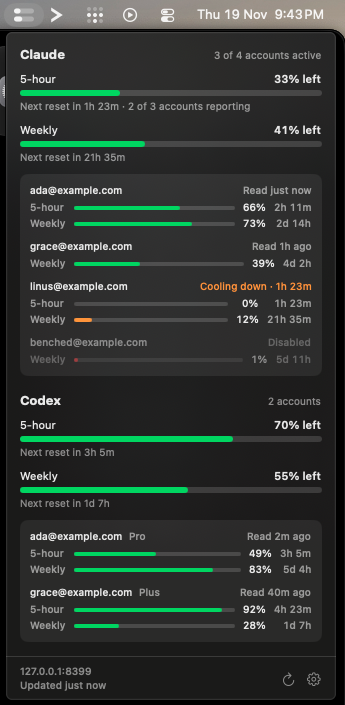
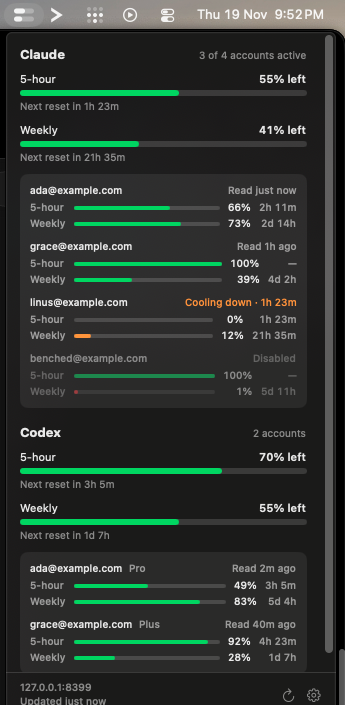
Fix council round 1 findings
Draw a gauge with no reading as an outline, keep hub answers off disk,
refuse redirects, count an unreported Claude 5-hour window as unused,
and give an extra Codex limit one id across transports.

diff --git a/Tests/ProxyLimitsTests/LimitsTests.swift b/Tests/ProxyLimitsTests/LimitsTests.swift
@@ -22,9 +22,17 @@ private func isClose(_ a: Double?, _ b: Double) -> Bool {
         #expect(isClose(ada.observedAt?.timeIntervalSince1970, 1_795_136_709.482))
     }
 
-    @Test func anAccountWithoutA5HourReadingOnlyHasItsWeeklyWindow() throws {
+    @Test func aClaudeReadingWithoutA5HourWindowMeansThatWindowIsUnused() throws {
+        // Anthropic sends no 5-hour headers while the 5-hour window has no usage.
         let grace = try #require(fixtureAccounts().first { $0.id.contains("bbbb2222") })
-        #expect(grace.windows.map(\.id) == ["7d"])
+
+        #expect(grace.windows.map(\.id) == ["5h", "7d"])
+        #expect(grace.windows.first?.usedFraction == 0)
+        #expect(grace.windows.first?.resetsAt == nil)
+    }
+
+    @Test func aClaudeAccountWithNoReadingHasNoWindows() {
+        #expect(SignalParser.windows(provider: .claude, signals: [:], observedAt: nil).isEmpty)
     }
 
     @Test func aRejectedWindowIsFullyUsedEvenWithoutAUtilization() throws {
@@ -50,7 +58,7 @@ private func isClose(_ a: Double?, _ b: Double) -> Bool {
         let codex = try #require(fixtureAccounts().first { $0.provider == .codex })
 
         #expect(codex.plan == "pro")
-        #expect(codex.windows.map(\.id) == ["5h", "7d", "bengalfox:7d"])
+        #expect(codex.windows.map(\.id) == ["5h", "7d", "gpt-5.3-codex-spark:7d"])
         #expect(codex.windows.map(\.label) == ["5-hour", "Weekly", "GPT-5.3-Codex-Spark · Weekly"])
         #expect(codex.windows.map(\.usedFraction) == [0.51, 0.17, 0.35])
         // No absolute reset on the 5-hour window: observed 23:00:00Z plus 7200 seconds.
@@ -70,6 +78,24 @@ private func isClose(_ a: Double?, _ b: Double) -> Bool {
         )
         #expect(windows.map(\.id) == ["7d", "secondary"])
         #expect(windows.map(\.label) == ["Weekly", "Secondary"])
+    }
+
+    @Test func anExtraCodexLimitHasOneIdHoweverTheHubSawIt() {
+        // The hub prefixes an extra limit with a short name for HTTP traffic and with
+        // "additional-<name>" for websocket traffic.
+        func ids(_ prefix: String) -> [String] {
+            SignalParser.windows(
+                provider: .codex,
+                signals: [
+                    "\(prefix)-limit-name": "GPT-5.3-Codex-Spark",
+                    "\(prefix)-primary-used-percent": "20",
+                    "\(prefix)-primary-window-minutes": "300",
+                ],
+                observedAt: nil
+            ).map(\.id)
+        }
+        #expect(ids("X-Codex-Bengalfox") == ["gpt-5.3-codex-spark:5h"])
+        #expect(ids("X-Codex-Additional-Gpt-5.3-Codex-Spark") == ["gpt-5.3-codex-spark:5h"])
     }
 
     @Test func ignoresValuesThatAreNotNumbers() {
@@ -113,10 +139,11 @@ private func isClose(_ a: Double?, _ b: Double) -> Bool {
         #expect(pools.map(\.provider) == [.claude, .codex])
         #expect(claude.windows.map(\.id) == ["5h", "7d", "7d_sonnet"])
 
-        // ada has 80% left and linus is rejected; grace reports no 5-hour window.
+        // ada has 80% left, grace's window is unused and linus is rejected. The API-key
+        // entry has no reading and is left out.
         let fiveHour = try #require(claude.window("5h"))
-        #expect(isClose(fiveHour.remainingFraction, 0.4))
-        #expect(fiveHour.accountCount == 2)
+        #expect(isClose(fiveHour.remainingFraction, (0.8 + 1 + 0) / 3))
+        #expect(fiveHour.accountCount == 3)
         #expect(fiveHour.nextReset == date(1_795_147_200))
 
         // ada 73%, grace 39%, linus 10%. The benched account's 1% is left out.

diff --git a/Sources/ProxyLimits/HubClient.swift b/Sources/ProxyLimits/HubClient.swift
@@ -30,10 +30,15 @@ public struct HubClient: Sendable {
     private let managementKey: String
     private let session: URLSession
 
-    public init(baseURL: URL, managementKey: String, session: URLSession = .shared) {
+    /// Keeps nothing on disk. The shared session would cache every answer in
+    /// `~/Library/Caches`, and an answer lists each account's email and, for API-key
+    /// credentials, the key itself.
+    private static let privateSession = URLSession(configuration: .ephemeral)
+
+    public init(baseURL: URL, managementKey: String, session: URLSession? = nil) {
         self.baseURL = baseURL
         self.managementKey = managementKey
-        self.session = session
+        self.session = session ?? Self.privateSession
     }
 
     /// Accepts what people paste: a bare host, a trailing slash, or the panel's own address
@@ -44,7 +49,8 @@ public struct HubClient: Sendable {
         if !trimmed.contains("://") {
             // Without a scheme, only this machine gets plain HTTP: the request carries the
             // management key.
-            let isLocal = ["127.0.0.1", "localhost", "[::1]"].contains { trimmed.hasPrefix($0) }
+            let host = URLComponents(string: "https://" + trimmed)?.host?.lowercased() ?? ""
+            let isLocal = ["127.0.0.1", "localhost", "::1", "[::1]"].contains(host)
             trimmed = (isLocal ? "http://" : "https://") + trimmed
         }
         guard let parsed = URLComponents(string: trimmed),
@@ -67,7 +73,7 @@ public struct HubClient: Sendable {
         let data: Data
         let response: URLResponse
         do {
-            (data, response) = try await session.data(for: request)
+            (data, response) = try await session.data(for: request, delegate: RedirectRefuser())
         } catch {
             throw .unreachable(error.localizedDescription)
         }
@@ -96,6 +102,19 @@ public struct HubClient: Sendable {
             return nil
         }
         return String(text.prefix(160))
+    }
+}
+
+/// Stops at a redirect instead of following it. The hub never answers this route with one,
+/// and following it would hand the management key to wherever it points.
+private final class RedirectRefuser: NSObject, URLSessionTaskDelegate {
+    func urlSession(
+        _ session: URLSession,
+        task: URLSessionTask,
+        willPerformHTTPRedirection response: HTTPURLResponse,
+        newRequest request: URLRequest
+    ) async -> URLRequest? {
+        nil
     }
 }
 

diff --git a/Sources/ProxyLimits/SignalParser.swift b/Sources/ProxyLimits/SignalParser.swift
@@ -36,7 +36,7 @@ enum SignalParser {
             guard parts[0] != "overage" else { continue }
             fields[String(parts[0]), default: [:]][String(parts[1])] = value
         }
-        return fields.compactMap { id, field in
+        var windows: [Ranked] = fields.compactMap { id, field in
             let rejected = field["status"] == "rejected"
             guard let used = rejected ? 1 : field["utilization"].flatMap(Double.init), used.isFinite else {
                 return nil
@@ -49,6 +49,13 @@ enum SignalParser {
             )
             return (windowRank(id), window)
         }
+        // Anthropic leaves the 5-hour headers out while that window has no usage, so a
+        // reading with a weekly window and no 5-hour one means the 5-hour window is unused.
+        // CLIProxyAPI reads it the same way when it routes (QuotaWindowIdle).
+        if windows.contains(where: { $0.window.id == "7d" }), !windows.contains(where: { $0.window.id == "5h" }) {
+            windows.append((windowRank("5h"), LimitWindow(id: "5h", label: claudeLabel("5h"), usedFraction: 0, resetsAt: nil)))
+        }
+        return windows
     }
 
     private static func claudeLabel(_ id: String) -> String {
@@ -69,6 +76,8 @@ enum SignalParser {
     /// `x-codex-[<limit>-]<primary|secondary>-<field>`. Used percent is 0...100. Which slot is
     /// the 5-hour window and which the weekly one depends on the plan, so the window length
     /// decides. Extra limits (a separate model allowance, for example) carry a limit name.
+    /// The hub spells an extra limit's header prefix differently for HTTP and websocket
+    /// traffic, so the limit name, when there is one, identifies it across accounts.
     private static func codexWindows(_ signals: [String: String], observedAt: Date?) -> [Ranked] {
         let prefix = "x-codex-"
         let suffixes = ["used-percent", "window-minutes", "reset-at", "reset-after-seconds"]
@@ -99,7 +108,7 @@ enum SignalParser {
             }
             let limitName = signals["x-codex-\(limit)-limit-name"] ?? limit
             let window = LimitWindow(
-                id: "\(limit):\(id)",
+                id: "\(limitName.lowercased()):\(id)",
                 label: "\(limitName) · \(label)",
                 usedFraction: percent / 100,
                 resetsAt: resetsAt

diff --git a/Sources/APIProxyWidget/MenuBarIcon.swift b/Sources/APIProxyWidget/MenuBarIcon.swift
@@ -2,7 +2,8 @@ import AppKit
 import ProxyLimits
 
 /// Draws the menu bar item: two gauges that drain as the pool is used.
-/// The top one is the 5-hour window, the bottom one the weekly window.
+/// The top one is the 5-hour window, the bottom one the weekly window. A gauge with no reading
+/// is an outline, so "unknown" never looks like "used up".
 enum MenuBarIcon {
     /// A warning sign replaces the gauges once they would show limits nobody can vouch for.
     static func image(for pool: ProviderPool?, isOutOfDate: Bool) -> NSImage {
@@ -29,9 +30,16 @@ enum MenuBarIcon {
                     height: barHeight
                 )
                 let radius = barHeight / 2
+                guard let level else {
+                    let outline = NSBezierPath(
+                        roundedRect: track.insetBy(dx: 0.5, dy: 0.5), xRadius: radius - 0.5, yRadius: radius - 0.5)
+                    NSColor.black.withAlphaComponent(0.45).setStroke()
+                    outline.stroke()
+                    continue
+                }
                 NSColor.black.withAlphaComponent(0.3).setFill()
                 NSBezierPath(roundedRect: track, xRadius: radius, yRadius: radius).fill()
-                guard let level, level > 0 else { continue }
+                guard level > 0 else { continue }
                 // Never narrower than a dot, so "a little left" doesn't look empty.
                 let width = max(barHeight, track.width * min(1, level))
                 let fill = NSRect(x: track.minX, y: track.minY, width: width, height: barHeight)

diff --git a/Sources/APIProxyWidget/LimitsStore.swift b/Sources/APIProxyWidget/LimitsStore.swift
@@ -42,6 +42,12 @@ final class LimitsStore {
 
     var pools: [ProviderPool] { Pool.pools(from: accounts, at: now) }
 
+    /// The pool the menu bar gauges show: Claude if it has limits to show, otherwise Codex.
+    var menuBarPool: ProviderPool? {
+        let pools = pools
+        return pools.first { !$0.windows.isEmpty } ?? pools.first
+    }
+
     /// Whether the limits on hand can no longer be trusted at a glance: the hub rejected the
     /// key, or it has not answered for several polls.
     var isOutOfDate: Bool {
@@ -88,9 +94,11 @@ final class LimitsStore {
         startPolling()
     }
 
-    /// Called when the panel opens, so it never shows limits older than a few seconds.
+    /// Called when the panel opens, so it never shows limits older than a few seconds and
+    /// asks again right away if the hub has not answered yet.
     func refreshIfStale() {
-        guard let lastUpdated, Date().timeIntervalSince(lastUpdated) > 10 else { return }
+        if let lastUpdated, Date().timeIntervalSince(lastUpdated) <= 10 { return }
+        guard lastUpdated != nil || error != nil else { return }
         refreshNow()
     }
 

diff --git a/Sources/APIProxyWidget/SettingsView.swift b/Sources/APIProxyWidget/SettingsView.swift
@@ -72,6 +72,9 @@ struct SettingsView: View {
     }
 
     private func save() {
+        // Return can reach this through both the field and the default button. A second save
+        // would send a wrong key twice, and each wrong key counts toward the hub's ban.
+        guard !isSaving else { return }
         guard let url = HubClient.normalizedBaseURL(hubText) else {
             problem = "That doesn't look like a hub address. Try https://hub.example.ts.net:8317."
             return
@@ -95,6 +98,8 @@ struct SettingsView: View {
     }
 
     private func setLaunchAtLogin(_ wanted: Bool) {
+        // Setting the checkbox back to the real state below lands here again.
+        guard wanted != (SMAppService.mainApp.status == .enabled) else { return }
         do {
             if wanted {
                 try SMAppService.mainApp.register()

diff --git a/Sources/APIProxyWidget/LimitsView.swift b/Sources/APIProxyWidget/LimitsView.swift
@@ -49,7 +49,11 @@ private struct ProviderSection: View {
                 Text(accountSummary).font(.caption).foregroundStyle(.secondary)
             }
             if pool.windows.isEmpty {
-                Text("No limits read yet. The hub learns them from each account's traffic.")
+                Text(
+                    pool.activeAccountCount == 0
+                        ? "Every account here is disabled on the hub."
+                        : "No limits read yet. The hub learns them from each account's traffic."
+                )
                     .font(.caption)
                     .foregroundStyle(.secondary)
             } else {

diff --git a/Tests/ProxyLimitsTests/HubClientTests.swift b/Tests/ProxyLimitsTests/HubClientTests.swift
@@ -139,6 +139,8 @@ private func client(host: String, _ stub: StubProtocol.Stub) -> HubClient {
         ("localhost:8317", "http://localhost:8317"),
         // No scheme on a remote host means HTTPS: the request carries the management key.
         ("hub.example.ts.net:8317", "https://hub.example.ts.net:8317"),
+        ("localhost.example.com:8317", "https://localhost.example.com:8317"),
+        ("127.0.0.1.example.com", "https://127.0.0.1.example.com"),
     ])
     func normalizesPastedAddresses(input: String, expected: String) {
         #expect(HubClient.normalizedBaseURL(input)?.absoluteString == expected)

diff --git a/Sources/APIProxyWidget/App.swift b/Sources/APIProxyWidget/App.swift
@@ -9,7 +9,7 @@ struct APIProxyWidgetApp: App {
         MenuBarExtra {
             PanelView(store: store)
         } label: {
-            Image(nsImage: MenuBarIcon.image(for: store.pools.first, isOutOfDate: store.isOutOfDate))
+            Image(nsImage: MenuBarIcon.image(for: store.menuBarPool, isOutOfDate: store.isOutOfDate))
         }
         .menuBarExtraStyle(.window)
     }

diff --git a/README.md b/README.md
@@ -12,14 +12,16 @@ The screenshot shows made-up accounts from `make demo-hub`.
 
 ## What you see
 
-The menu bar item is two gauges. The top one is the pooled 5-hour window and the bottom one is the pooled weekly window. Both drain as the pool is used. If the hub has Claude accounts the gauges show Claude, otherwise Codex. A warning sign replaces them when the hub rejects the key or has not answered for five minutes.
+The menu bar item is two gauges. The top one is the pooled 5-hour window and the bottom one is the pooled weekly window. Both drain as the pool is used. A gauge is an outline while the hub has no reading for it. If the hub has Claude limits the gauges show Claude, otherwise Codex. A warning sign replaces them when the hub rejects the key or has not answered for five minutes.
 
 Click it for the panel:
 
 - Per provider, each limit window averaged over the accounts that report it, with the soonest reset.
 - Each account with its own windows, how long ago the hub read them, and whether the account is cooling down or disabled.
 
-A pooled number is the average share left over the accounts that report that window, the same rule the hub's quota page uses. An account that reports no 5-hour window is left out of the 5-hour average instead of counted as full. Disabled accounts are listed but never averaged.
+A pooled number is the average share left over the accounts that report that window, the same rule the hub's quota page uses. An account with no reading for a window is left out of that window's average instead of counted as full. Disabled accounts are listed but never averaged.
+
+Anthropic leaves the 5-hour figures out of its responses while an account's 5-hour window is unused. The widget shows that account's 5-hour window as 100% left, with no reset time.
 
 ## Install
 
@@ -84,6 +86,7 @@ make app         # build/API Proxy Widget.app
 - It reads Claude and Codex accounts only. Other providers on the hub are ignored.
 - Codex support is built from the header shapes in CLIProxyAPI's own tests. It has not been checked against a live Codex account.
 - It shows the 5-hour, weekly and model-scoped windows the provider puts in response headers. Extra usage credits are not shown.
+- It reads the hub's `/v0/management` route, which CLIProxyAPI v8 calls deprecated but still serves with a frozen response shape.
 
 ## License
 
